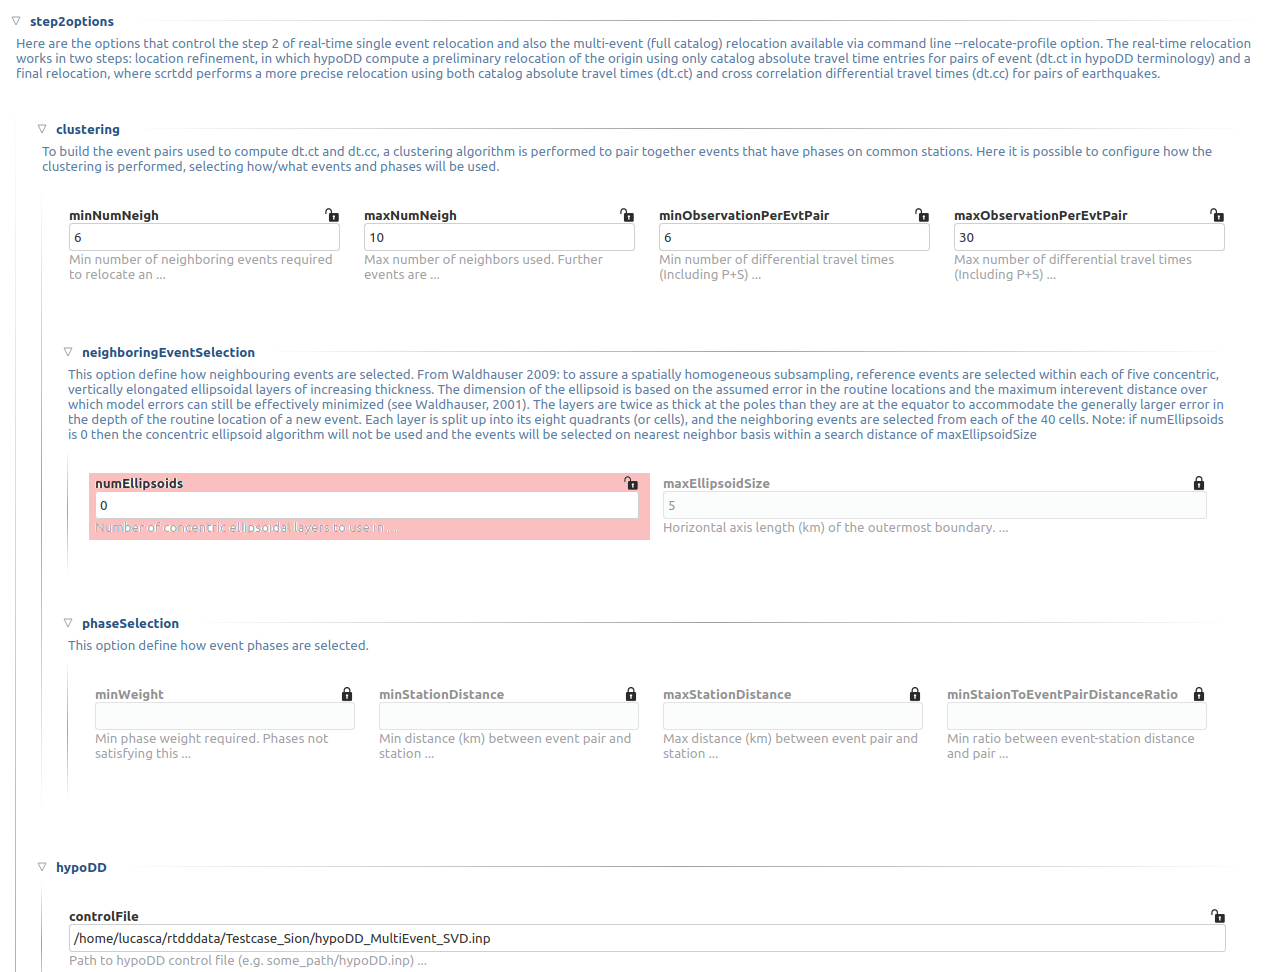
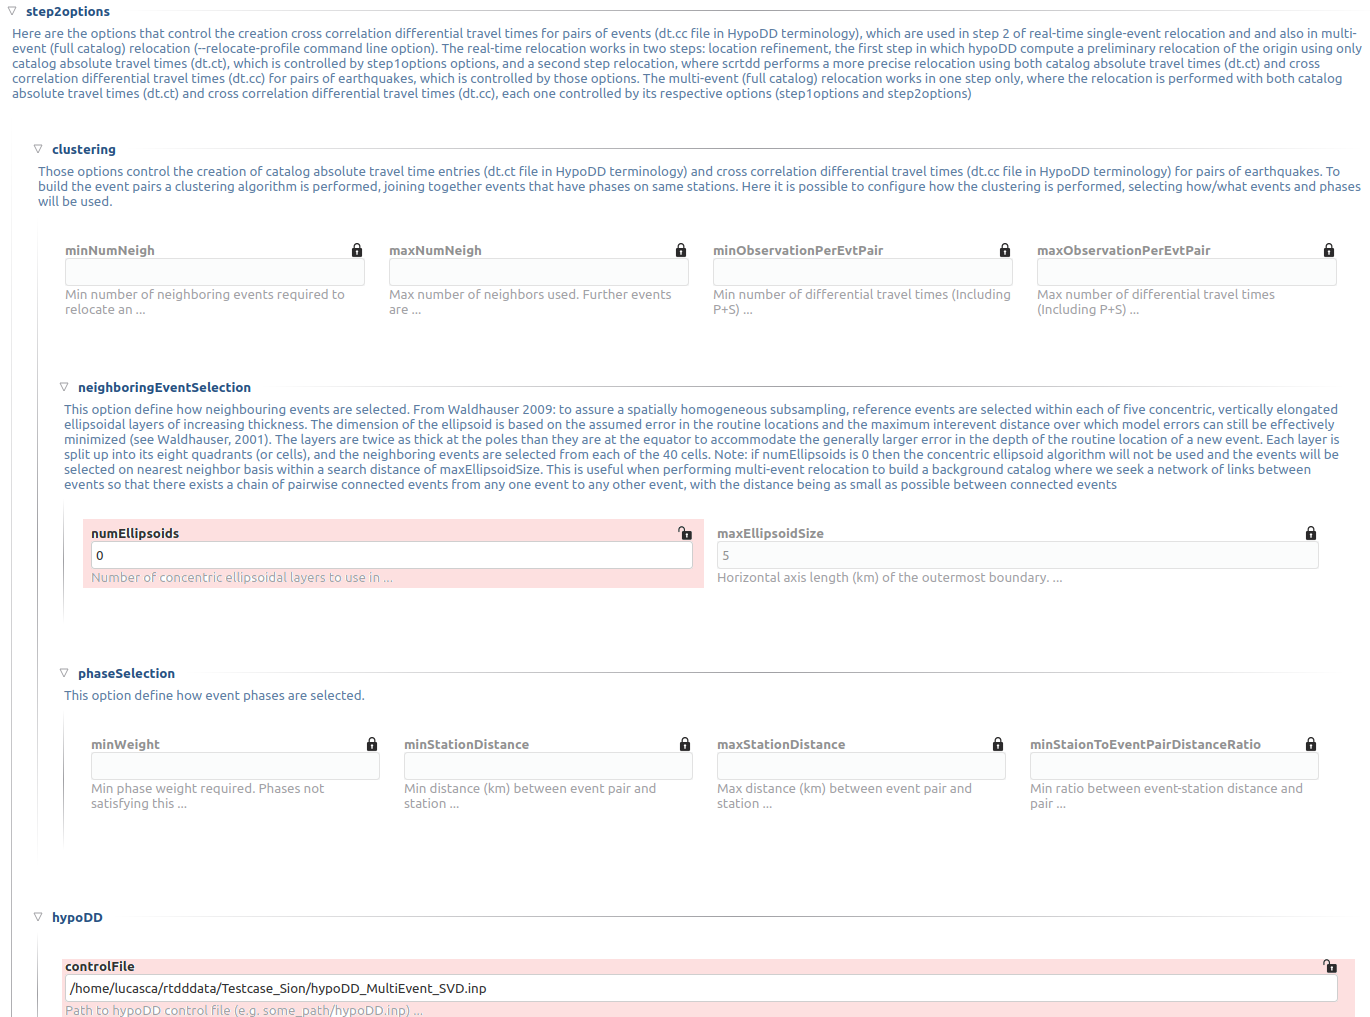
REVERT: split dt.ct and dt.cc creation options in step1options and step2options

diff --git a/apps/scrtdd/hypodd.cpp b/apps/scrtdd/hypodd.cpp
@@ -975,28 +975,18 @@ CatalogPtr HypoDD::relocateCatalog(bool force, bool usePh2dt)
             createEventDatFile(catToReloc, eventFile);
         }
 
-        // Find Neighbouring Events in the catalog
-        map<unsigned,CatalogPtr> neighbourCats = selectNeighbouringEventsCatalog(
-            catToReloc, _cfg.step2Clustering.minWeight,
-            _cfg.step2Clustering.minESdist, _cfg.step2Clustering.maxESdist,
-            _cfg.step2Clustering.minEStoIEratio, 
-            _cfg.step2Clustering.minDTperEvt,  _cfg.step2Clustering.maxDTperEvt,
-            _cfg.step2Clustering.minNumNeigh, _cfg.step2Clustering.maxNumNeigh,
-            _cfg.step2Clustering.numEllipsoids , _cfg.step2Clustering.maxEllipsoidSize
-        );
-
         // calculate absolute travel times from catalog phases
         // Create dt.ct (if not already generated)
         if ( force || ! Util::fileExists(dtctFile) )
         {
-            createDtCtCatalog(neighbourCats, dtctFile);
+            createDtCtCatalog(catToReloc, dtctFile);
         }
 
         // calculate cross correlated differential travel times
         // Create dt.cc (if not already generated)
         if ( force || ! Util::fileExists(dtccFile) )
         {
-            createDtCcCatalog(neighbourCats, dtccFile);
+            createDtCcCatalog(catToReloc, dtccFile);
         }
     }
     else
@@ -2037,7 +2027,7 @@ CatalogPtr HypoDD::loadRelocatedCatalog(const CatalogCPtr& originalCatalog,
  * Create absolute travel times file (dt.ct) for hypodd
  * This is for full catalog mode
  */
-void HypoDD::createDtCtCatalog(const map<unsigned,CatalogPtr>& neighbourCats,
+void HypoDD::createDtCtCatalog(const CatalogCPtr& catalog,
                                const string& dtctFile) const
 {
     SEISCOMP_INFO("Creating differential travel time file %s", dtctFile.c_str());
@@ -2046,6 +2036,15 @@ void HypoDD::createDtCtCatalog(const map<unsigned,CatalogPtr>& neighbourCats,
     if ( !outStream.is_open() )
         throw runtime_error("Cannot create file " + dtctFile);
 
+    map<unsigned,CatalogPtr> neighbourCats = selectNeighbouringEventsCatalog(
+        catalog, _cfg.step1Clustering.minWeight,
+        _cfg.step1Clustering.minESdist, _cfg.step1Clustering.maxESdist,
+        _cfg.step1Clustering.minEStoIEratio, 
+        _cfg.step1Clustering.minDTperEvt,  _cfg.step1Clustering.maxDTperEvt,
+        _cfg.step1Clustering.minNumNeigh, _cfg.step1Clustering.maxNumNeigh,
+        _cfg.step1Clustering.numEllipsoids , _cfg.step1Clustering.maxEllipsoidSize
+    );
+ 
     for (const auto& kv : neighbourCats)
         buildAbsTTimePairs(kv.second, kv.first, outStream);
 }
@@ -2172,7 +2171,7 @@ void HypoDD::printCounters()
  * correlation for pairs of earthquakes.
  * This is for full catalog mode
  */
-void HypoDD::createDtCcCatalog(const map<unsigned,CatalogPtr>& neighbourCats,
+void HypoDD::createDtCcCatalog(const CatalogCPtr& catalog,
                                const string& dtccFile)
 {
     SEISCOMP_INFO("Creating Cross correlation differential travel time file %s", dtccFile.c_str());
@@ -2181,6 +2180,15 @@ void HypoDD::createDtCcCatalog(const map<unsigned,CatalogPtr>& neighbourCats,
     if ( !outStream.is_open() )
         throw runtime_error("Cannot create file " + dtccFile);
 
+    map<unsigned,CatalogPtr> neighbourCats = selectNeighbouringEventsCatalog(
+        catalog, _cfg.step2Clustering.minWeight,
+        _cfg.step2Clustering.minESdist, _cfg.step2Clustering.maxESdist,
+        _cfg.step2Clustering.minEStoIEratio, 
+        _cfg.step2Clustering.minDTperEvt,  _cfg.step2Clustering.maxDTperEvt,
+        _cfg.step2Clustering.minNumNeigh, _cfg.step2Clustering.maxNumNeigh,
+        _cfg.step2Clustering.numEllipsoids , _cfg.step2Clustering.maxEllipsoidSize
+    );
+ 
     _counters = {0};
 
     for (const auto& kv : neighbourCats)

diff --git a/apps/scrtdd/hypodd.h b/apps/scrtdd/hypodd.h
@@ -161,7 +161,7 @@ class HypoDD : public Core::BaseObject {
         void createStationDatFile(const CatalogCPtr& catalog, const std::string& staFileName) const;
         void createPhaseDatFile(const CatalogCPtr& catalog, const std::string& phaseFileName) const;
         void createEventDatFile(const CatalogCPtr& catalog, const std::string& eventFileName) const;
-        void createDtCtCatalog(const std::map<unsigned,CatalogPtr>& neighbourCats,
+        void createDtCtCatalog(const CatalogCPtr& catalog,
                                const std::string& dtctFile) const;
         void createDtCtSingleEvent(const CatalogCPtr& catalog,
                                    unsigned evToRelocateId,
@@ -172,7 +172,7 @@ class HypoDD : public Core::BaseObject {
         void createDtCcPh2dt(const CatalogCPtr& catalog,
                              const std::string& dtctFile,
                              const std::string& dtccFile);
-        void createDtCcCatalog(const std::map<unsigned,CatalogPtr>& neighbourCats,
+        void createDtCcCatalog(const CatalogCPtr& catalog,
                                const std::string& dtccFile);
         void createDtCcSingleEvent(const CatalogCPtr& catalog,
                                    unsigned evToRelocateId,

diff --git a/apps/scrtdd/rtdd.cpp b/apps/scrtdd/rtdd.cpp
@@ -469,7 +469,9 @@ bool RTDD::validateParameters()
         } catch ( ... ) { prof->ddcfg.step1Clustering.minEStoIEratio = 0; } 
 
         prefix = string("profile.") + *it + ".step1options.hypoDD.";
-        prof->ddcfg.hypodd.step1CtrlFile = env->absolutePath(configGetPath(prefix + "controlFile"));
+        try {
+            prof->ddcfg.hypodd.step1CtrlFile = env->absolutePath(configGetPath(prefix + "controlFile"));
+        } catch ( ... ) { }
 
         prefix = string("profile.") + *it + ".step2options.clustering.";
         prof->ddcfg.step2Clustering.recordStreamURL = recordStreamURL();

diff --git a/README.md b/README.md
@@ -126,8 +126,9 @@ Now that we have dumped the events (event.csv, phase.csv, stations.csv) we might
 
 ![Catalog selection option](/img/catalog-selection2.png?raw=true "Catalog selection from raw file format")
 
-At this point we have to configure the other profile options that control the relocation process. Since we are performing a multi event relocation, we have to only configure the `step2options` (see the next paragraph on real time single event relocation to understand step1 and step2 options).
+At this point we have to configure the other profile options that control the relocation process: `step1options`, which control the creation of catalog absolute travel time entries for pairs of events (dt.ct file in HypoDD terminology), and `step2options`, which control the creation cross correlation differential travel times for pairs of events (dt.cc file in HypoDD terminology).
 
+![Relocation options](/img/multiEventStep1options.png?raw=true "Relocation options")
 ![Relocation options](/img/multiEventStep2options.png?raw=true "Relocation options")
 ![Relocation options](/img/xcorr.png?raw=true "Relocation options")  
 
@@ -138,6 +139,8 @@ scrtdd --reloc-profile profileName
 ```
 
 scrtdd will relocated the catalog and will generate another set of files reloc-event.csv reloc-phase.csv and reloc-stations.csv, which together define a new catalog with relocated origins. At this point we should check the relocated events and see if we are happy with the results. If not, we change scrtdd settings and relocate the catalog again until we are satisfied with the locations, at which point we can finally set the resulting relocated catalog as background catalog in our scrtdd profile (overwriting the previous file triples event.csv, phase.csv, stations.csv that is no longer needed for real time relocation).
+
+![Catalog selection option](/img/catalog-selection3.png?raw=true "Catalog selection from raw file format")
 
 We are now ready to perform real time relocation!
 
@@ -222,8 +225,6 @@ Step 1: location refinement. In this step scrtdd performs a preliminary relocati
 Step 2: the refined location is used as starting location to perform a more precise relocation using both catalog absolute travel times (dt.ct) and differential travel times from cross correlation (dt.cc). 
 
 After step2 the relocated origin is sent to the messaging system. If step2 fails, then the relocated origin from step1 is sent to the messaging system. If step1 fails, step2 is attempted anyway.
-
-Note: when performing the multi event (catalog) relocation ("scrtdd --reloc-profile") only step2options are considered.
 
 
 ![Relocation options](/img/step1options.png?raw=true "Relocation options")
